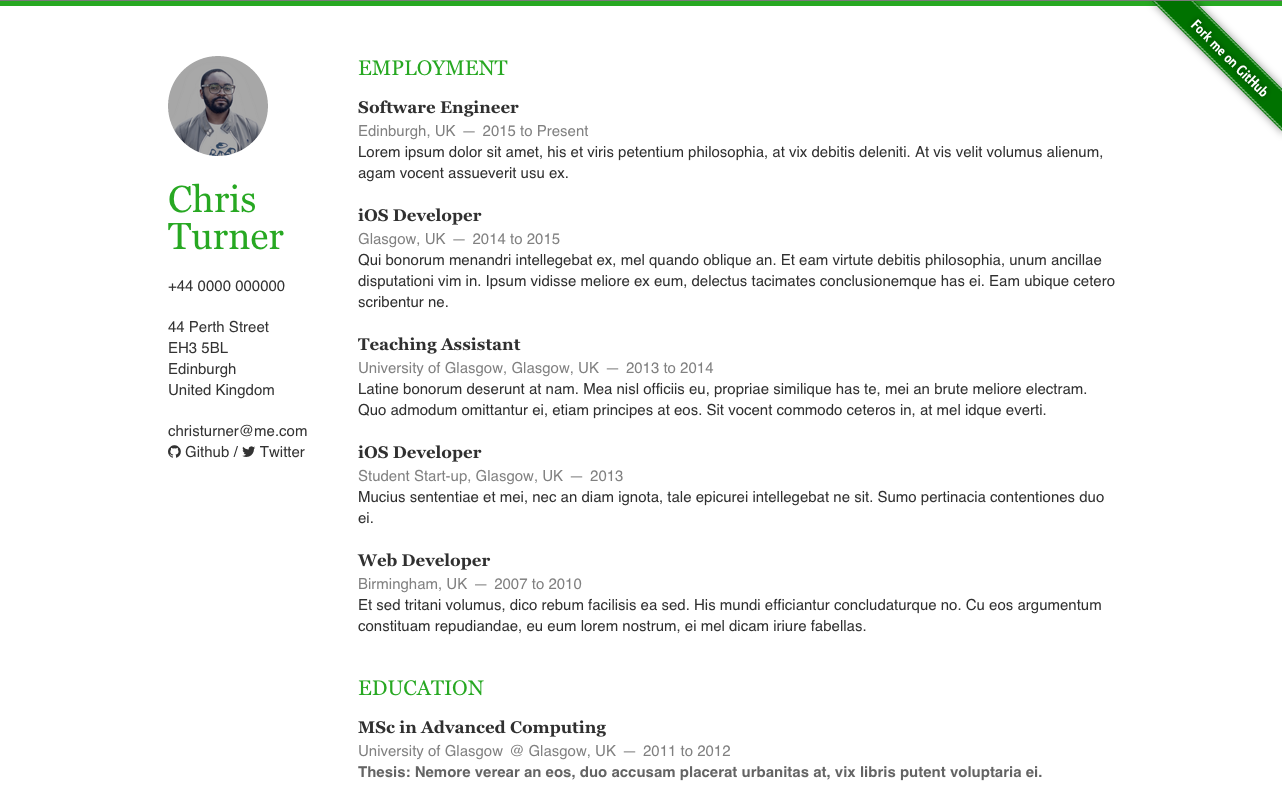
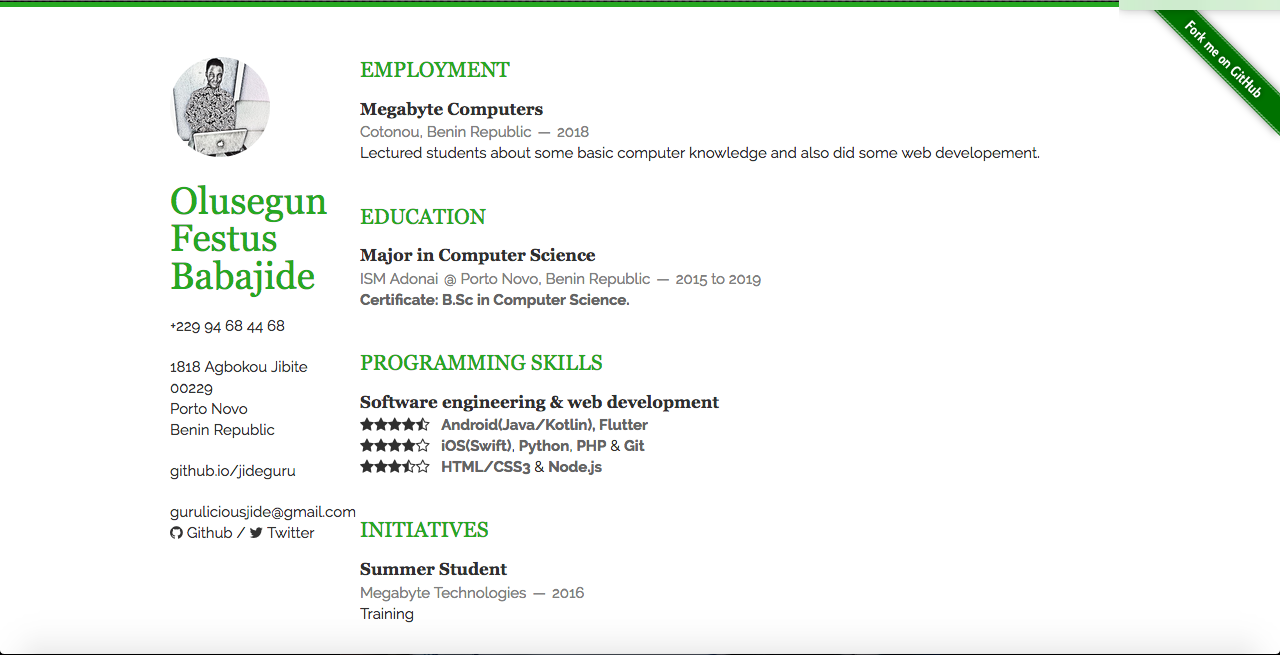
Update Resume

diff --git a/Readme.md b/Readme.md
@@ -1,8 +1,6 @@
 
 # Curriculum Vitae 
 
-[![Build Status](https://secure.travis-ci.org/jekyller/vitae.png?branch=gh-pages)](http://travis-ci.org/jekyller/vitae)
-
 Personal homepage (curriculum vitae or resume) based on [João's](https://github.com/joaomoreno/resume).
 Vitae is built with [skeleton](http://getskeleton.com/), powered by [Jekyll](http://jekyllrb.com/) and freely
 hosted in [Github pages](https://pages.github.com/).
@@ -10,8 +8,7 @@ hosted in [Github pages](https://pages.github.com/).
 
 ## Screenshots
 
-![resume page](https://raw.githubusercontent.com/jekyller/vitae/gh-pages/assets/images/vitae_screen.png)
-
+![resume page](https://raw.githubusercontent.com/jideguru/jideguru.github.io/master/assets/images/screen.png)
 
 ## How to use it
 
